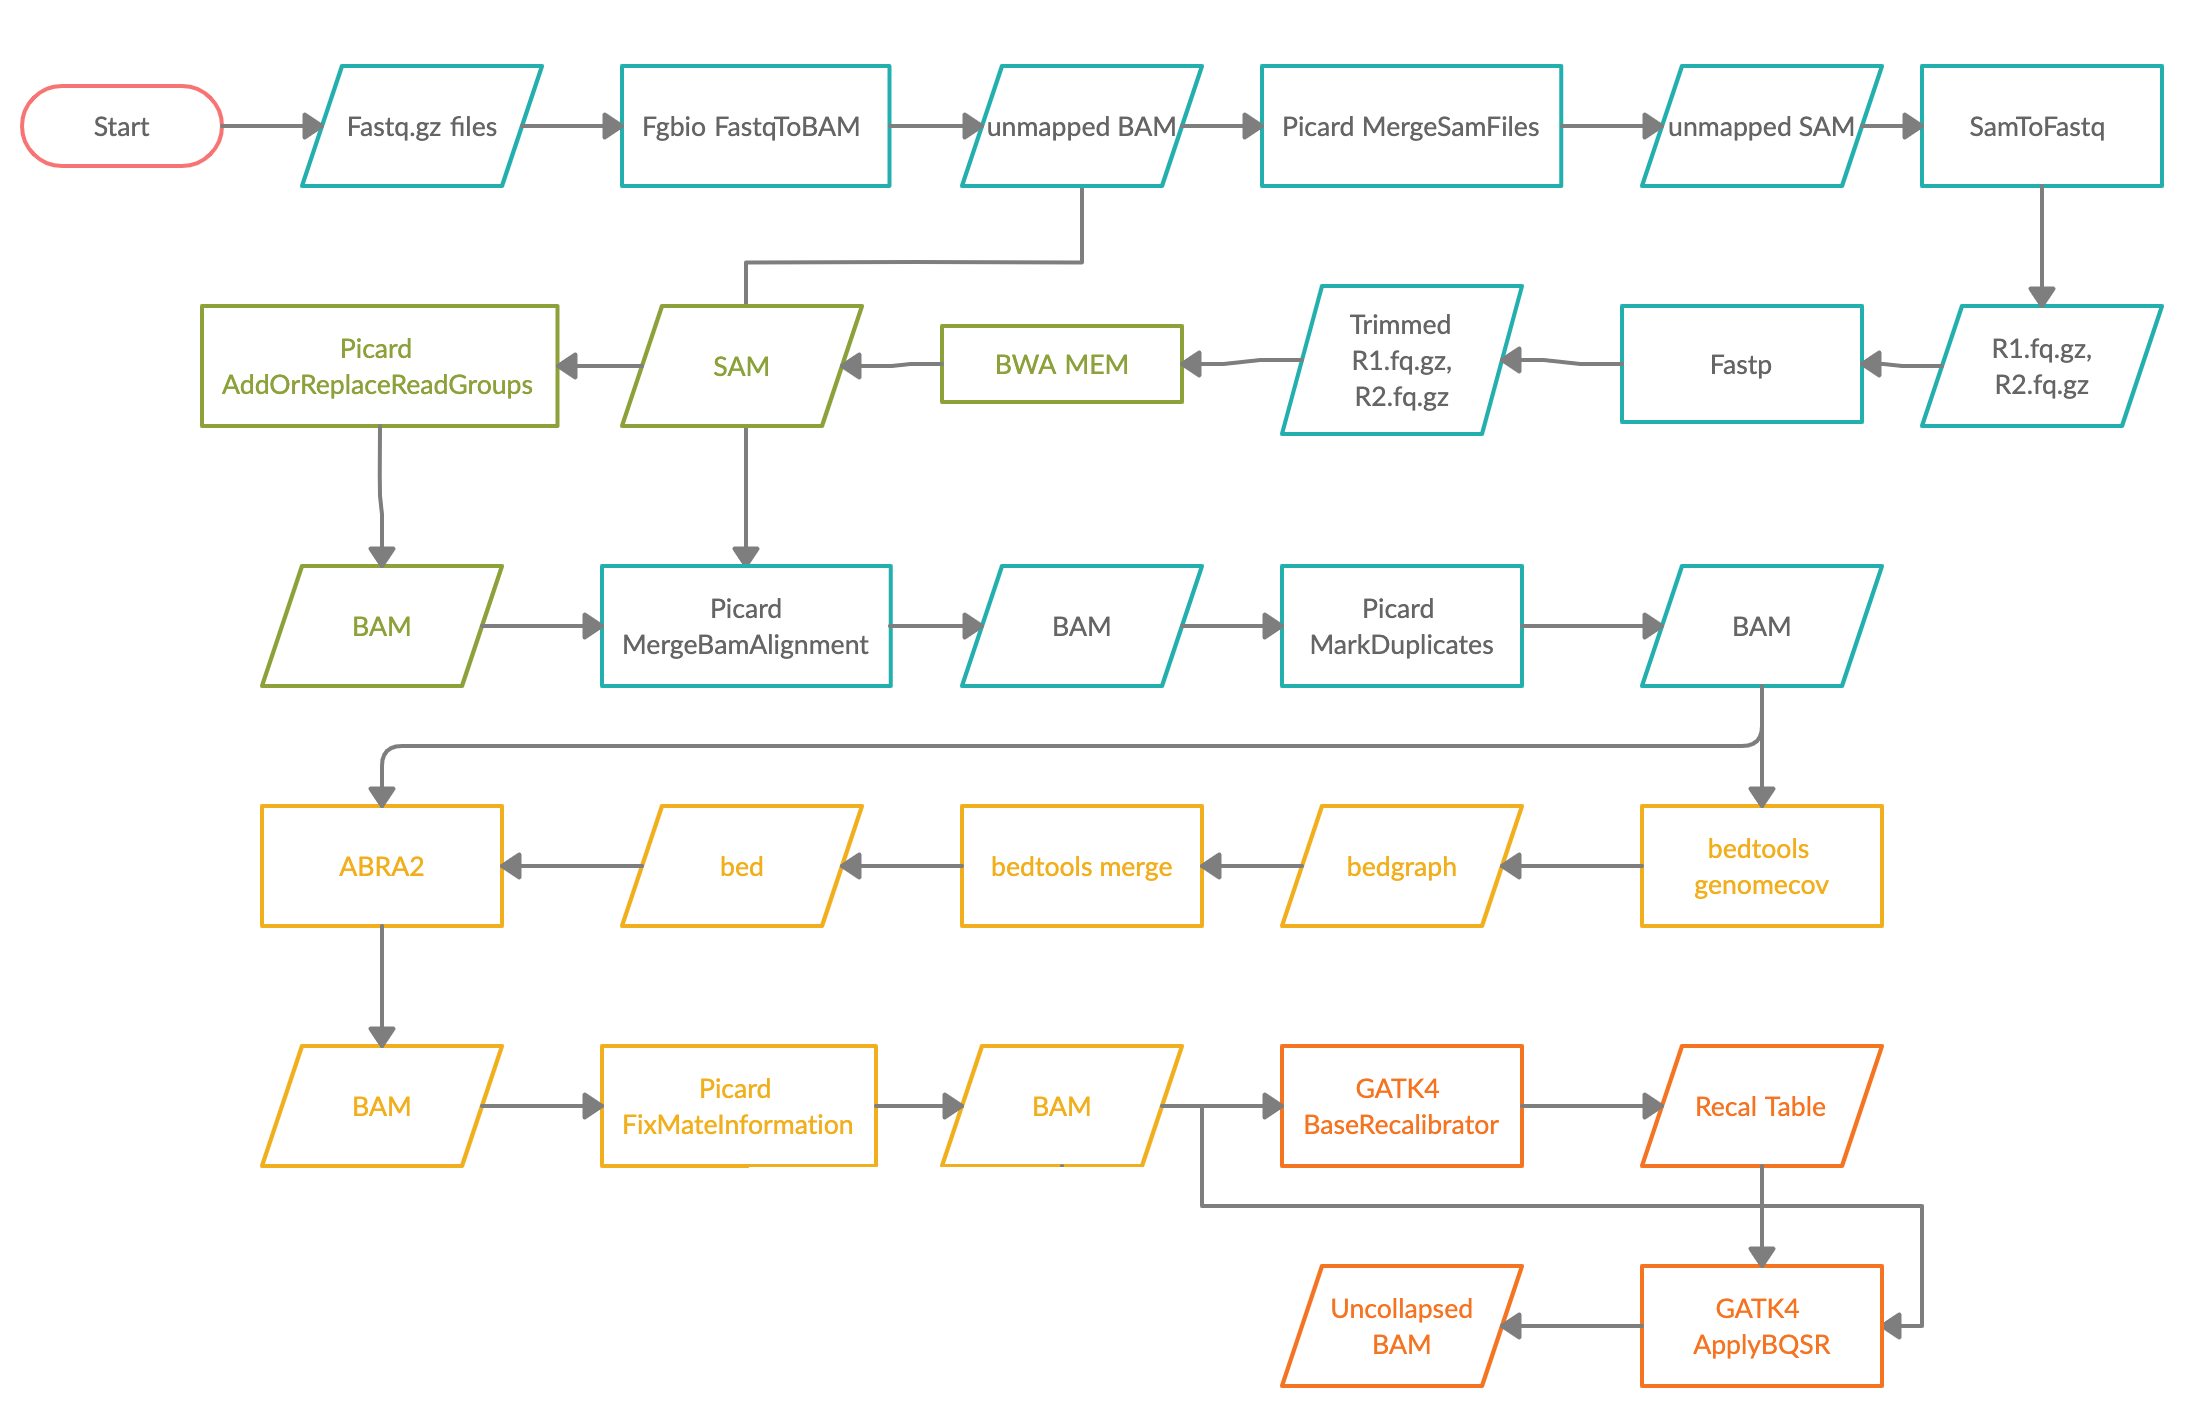
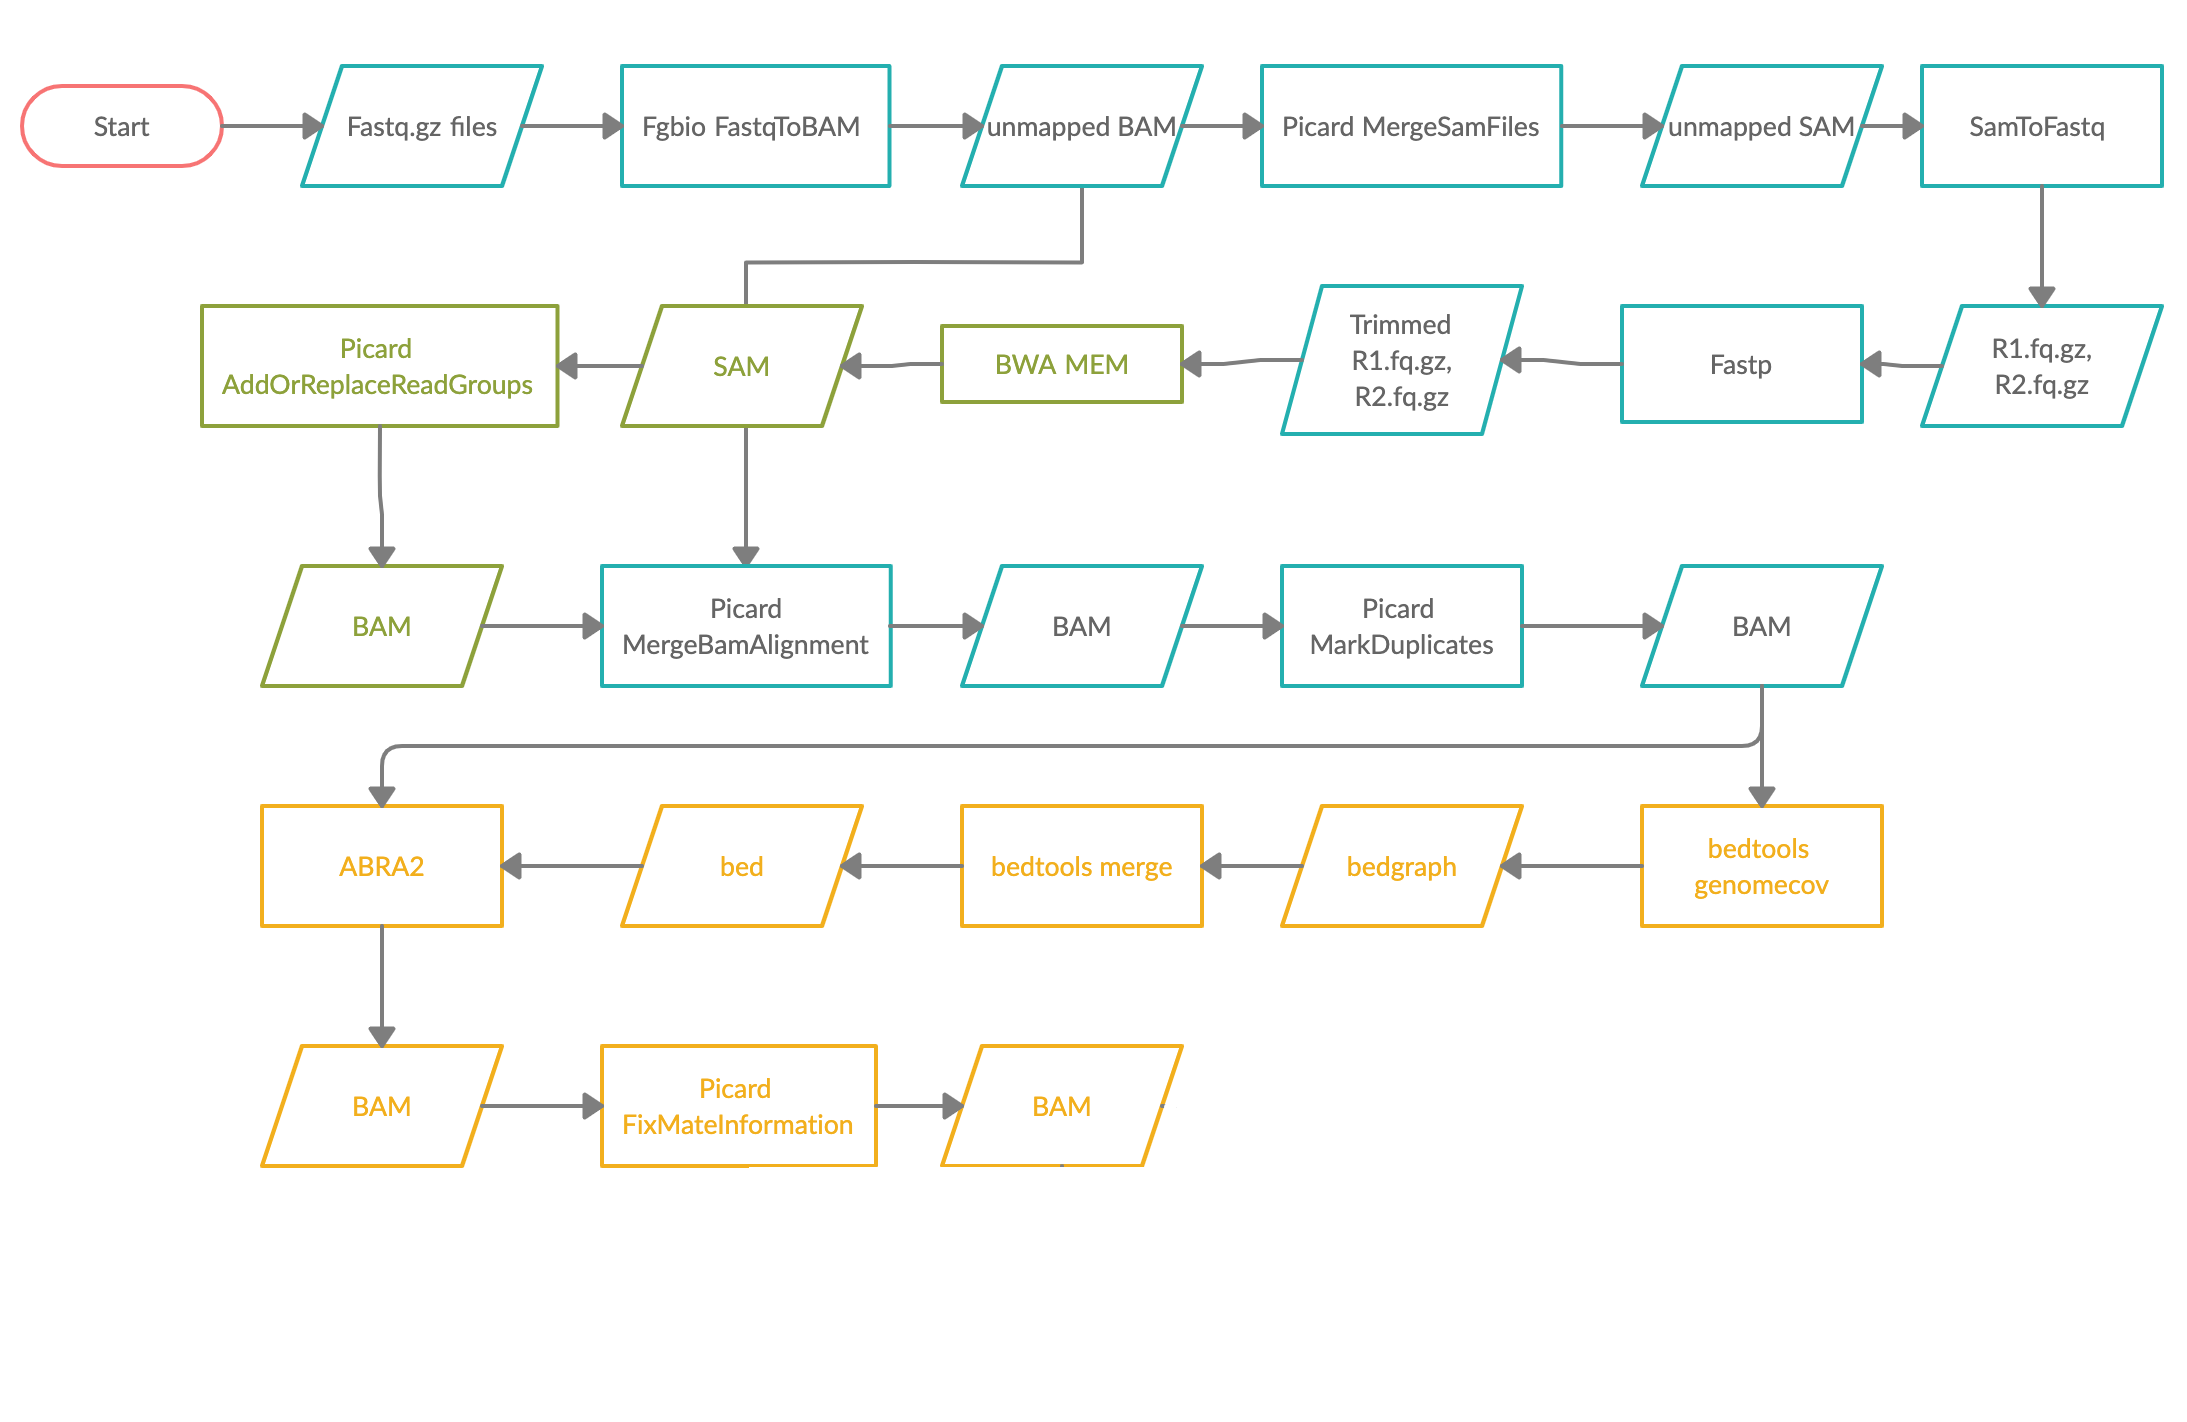
Update the test and docs

diff --git a/tests/test_standard_bam_processing.py b/tests/test_standard_bam_processing.py
@@ -24,9 +24,6 @@ RESULT_FILE_NAME = [
     "test_dup_metrics.txt",
     "test_fx.bam",
     "test_fx.bai",
-    "test_fx_bqsr.bam",
-    "test_fx_bqsr.bai",
-    "test_fx_bqsr_alignment_summary_metrics.txt",
     "pipeline_result.json",
 ]
 
@@ -85,11 +82,6 @@ def test_output_json():
         == "test_dup_metrics.txt"
     )
     assert output_json["indel_realignment_bam"]["basename"] == "test_fx.bam"
-    assert output_json["uncollapsed_bam"]["basename"] == "test_fx_bqsr.bam"
-    assert (
-        output_json["gatk_collect_alignment_summary_metrics_txt"]["basename"]
-        == "test_fx_bqsr_alignment_summary_metrics.txt"
-    )
     
     
 """     

diff --git a/docs/inputs-description.md b/docs/inputs-description.md
@@ -140,21 +140,6 @@ Common workflow language execution engines accept two types of input that are [J
 | :---: | :---: | :---: |
 | **picard\_fixmate\_information\_output\_file\_name** | The output BAM file to write to |  |
 
-### GATK [BaseRecalibrator](https://github.com/msk-access/cwl-commandlinetools/tree/develop/gatk_base_recalibrator_4.1.8.1)
-
-| **Argument Name** | **Summary** | **Default Value** |
-| :---: | :--- | :---: |
-| **gatk\_base\_recalibrator\_known\_sites** | One or more databases of known polymorphic sites used to exclude regions around known polymorphisms from analysis |  |
-| **gatk\_bqsr\_read\_filter** | Read filters to be applied before analysis |  |
-| **base\_recalibrator\_output\_file\_name** | The output recalibration table file to create |  |
-
-### GATK [ApplyBQSR](https://github.com/msk-access/cwl-commandlinetools/tree/develop/gatk_apply_bqsr_4.1.8.1)
-
-| **Argument Name** | **Summary** | **Default Value** |
-| :---: | :--- | :---: |
-| **apply\_bqsr\_output\_file\_name** | The output BAM file |  |
-| **gatk\_bqsr\_disable\_read\_filte**r | Read filters to be disabled before analysis | GoodCigarReadFilter |
-
 ## Template inputs file
 
 {% hint style="warning" %}
@@ -177,8 +162,6 @@ Common workflow language execution engines accept two types of input that are [J
     "abra2_scoring_gap_alignments": null,
     "abra2_soft_clip_contig": null,
     "abra2_window_size": null,
-    "apply_bqsr_output_file_name": null,
-    "base_recalibrator_output_file_name": null,
     "bedtools_genomecov_option_bedgraph": true,
     "bedtools_merge_distance_between_features": null,
     "bwa_mem_K": 1000000,
@@ -228,18 +211,6 @@ Common workflow language execution engines accept two types of input that are [J
     "fgbio_fastq_to_bam_predicted-insert-size": null,
     "fgbio_fastq_to_bam_sort": null,
     "fgbio_fastq_to_bam_umi-tag": null,
-    "gatk_base_recalibrator_known_sites": [
-        {
-            "class": "File",
-            "path": "/Users/shahr2/Documents/test_reference/test_fastq_to_bam/known_sites/dbsnp_137_14_16.b37.vcf"
-        },
-        {
-            "class": "File",
-            "path": "/Users/shahr2/Documents/test_reference/test_fastq_to_bam/known_sites/Mills_and_1000G_gold_standard-14_16.indels.b37.vcf"
-        }
-    ],
-    "gatk_bqsr_disable_read_filter": null,
-    "gatk_bqsr_read_filter": null,
     "gatk_mark_duplicates_assume_sort_order": null,
     "gatk_mark_duplicates_duplication_metrics_file_name": "test_dup_metrics.txt",
     "gatk_mark_duplicates_output_file_name": null,

diff --git a/docs/outputs-description.md b/docs/outputs-description.md
@@ -6,12 +6,9 @@ description: Here are the various outputs of the workflow
 
 | File Name | File Description |
 | :---: | :---: |
-| **sample-name\_bqsr.bam** | Final binary alignment map \(BAM\) file generated by the process |
-| **sample-name\_bqsr.bai** | The binary alignment index \(BAI\) file associated with the final bam. |
 | **sample-name\_fastp\_out.html** | Trimming metrics from fastp in html format |
 | **sample-name\_fastp\_out.json** | Trimming metrics from fastp in json format |
-| **sample-name\_fx.bam** | Binary alignment map \(BAM\) file generated after FixMateInformation and before BQSR |
+| **sample-name\_fx.bam** | Binary alignment map \(BAM\) file generated after FixMateInformation |
 | **sample-name\_fx.bai** | The binary alignment index \(BAI\) file associated with the FixMateInformation bam file |
 | **sample-name\_duplication\_metrics.txt** | Metrics file for MarkDuplicated bam file. |
-| **sample-name\_bqsr\_alignment\_summary\_metrics.txt** | Alignment Metrics on Final BAM file |
 

diff --git a/docs/tools-description.md b/docs/tools-description.md
@@ -18,6 +18,4 @@ description: Versions of tools in order of process
 | [**Merge**](https://github.com/msk-access/cwl-commandlinetools/tree/master/bedtools_merge_v2.28.0_cv2) **\(Bedtools\)** | **2.28.0\_cv2** |
 | [**ABRA**](https://github.com/msk-access/cwl-commandlinetools/tree/develop/abra2_2.22) | **2.22** |
 | [**FixMateInformation**](https://github.com/msk-access/cwl-commandlinetools/tree/develop/picard_fix_mate_information_4.1.8.1) **\(Picard tools part of GATK\)** | **4.1.8.1** |
-| [**BaseRecalibrator**](https://github.com/msk-access/cwl-commandlinetools/tree/develop/gatk_base_recalibrator_4.1.8.1) **\(GATK\)** | **4.1.8.1** |
-| [**ApplyBQSR**](https://github.com/msk-access/cwl-commandlinetools/tree/develop/gatk_apply_bqsr_4.1.8.1) **\(GATK\)** | **4.1.8.1** |
 
